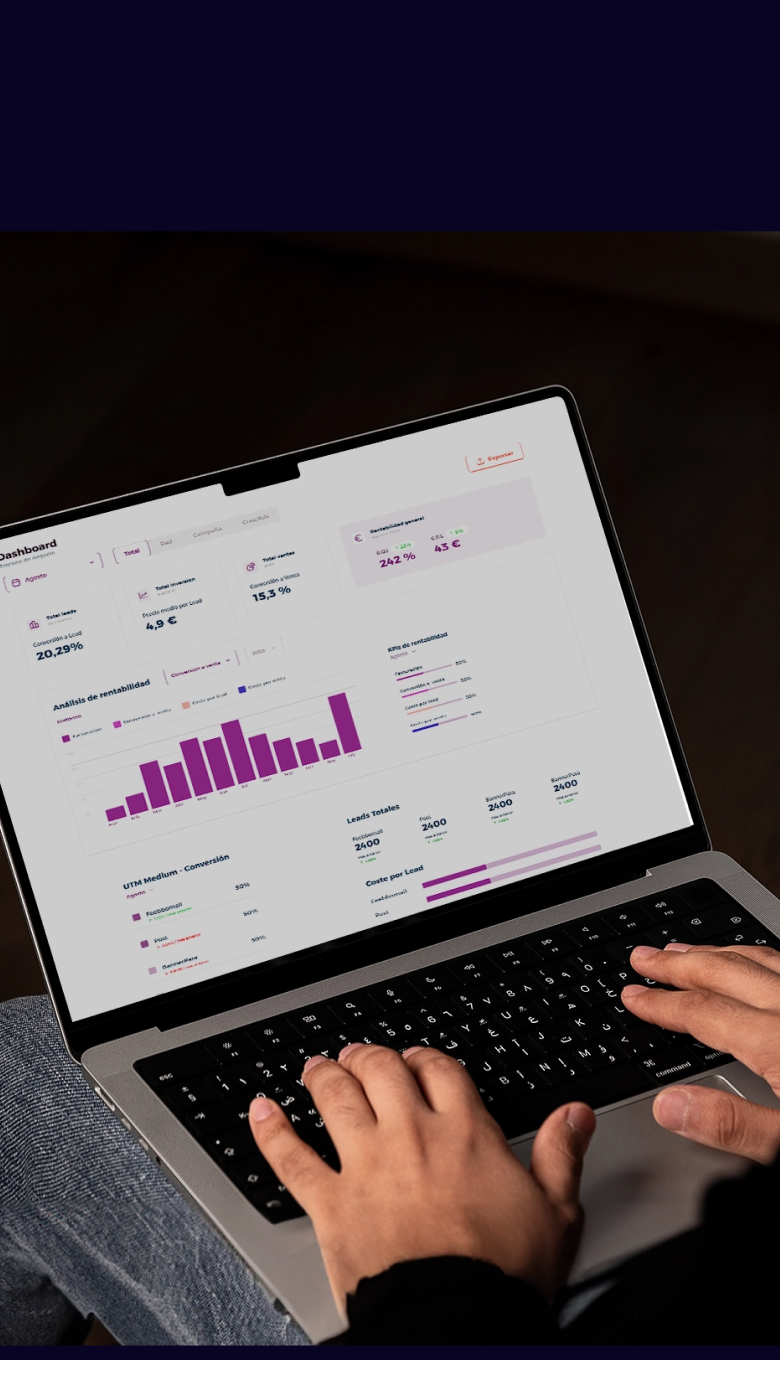
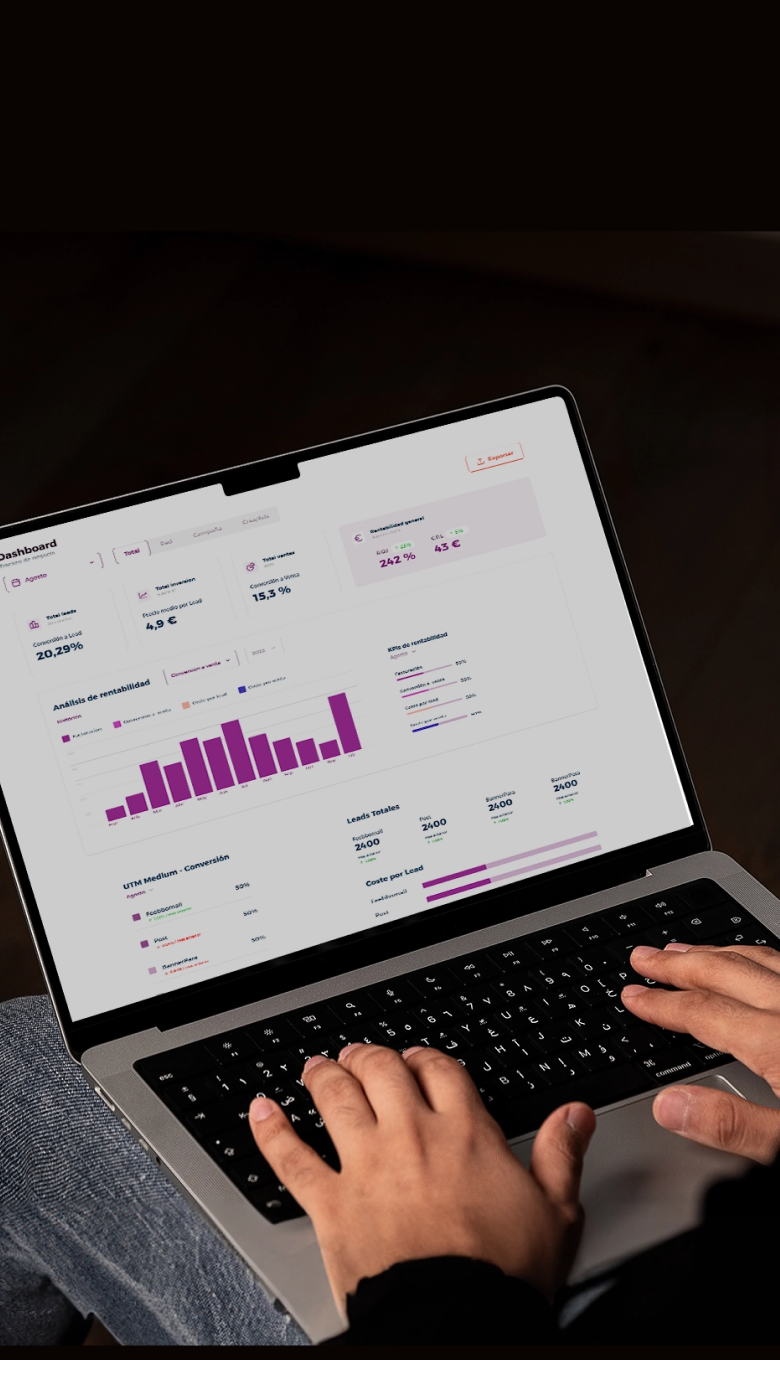
pagina wors responsive

Changed region(s): [[0.0, 0.0, 1.0, 0.1834], [0.0, 0.9782, 1.0, 1.0]]

diff --git a/src/pages/Works.jsx b/src/pages/Works.jsx
@@ -49,7 +49,7 @@ function Marquee() {
 }
 
 // ── Work card ────────────────────────────────────────────────────────
-function WorkCard({ image, hoverImage, title, description, areas, href = "#" }) {
+function WorkCard({ image, hoverImage, imageMobile, title, description, areas, href = "#" }) {
   const areaList = areas.split(" · ");
   const [hovered, setHovered] = useState(false);
   const { startCurtain } = useTransition();
@@ -67,7 +67,10 @@ function WorkCard({ image, hoverImage, title, description, areas, href = "#" }) 
       onMouseEnter={() => setHovered(true)}
       onMouseLeave={() => setHovered(false)}
     >
-      <img src={hovered && hoverImage ? hoverImage : image} alt={title} />
+      <picture>
+        {imageMobile && <source media="(max-width: 768px)" srcSet={imageMobile} />}
+        <img src={hovered && hoverImage ? hoverImage : image} alt={title} />
+      </picture>
       <div className="work-overlay">
         <div className="container-info">
 
@@ -102,6 +105,7 @@ export default function Works() {
     {
       image: "/images/works/work-adeslas.webp",
       hoverImage: "/images/works/work-adeslash.webp",
+      imageMobile: "/images/works/work-adeslas-mobile.webp",
       title: "Customer Portal",
       description: "Self-Service Platform for Insurance Clients",
       areas: "Strategy · Product Design · UX Design",
@@ -110,6 +114,7 @@ export default function Works() {
     {
       image: "/images/works/work-choose.webp",
       hoverImage: "/images/works/work-chooseh.webp",
+      imageMobile: "/images/works/work-choose-mobile.webp",
       title: "Lead Generation Platform",
       description: "Marketing Platform for Lead Capture & Conversion",
       areas: "Strategy · Product Design · UX Design",
@@ -118,6 +123,7 @@ export default function Works() {
     {
       image: "/images/works/work-pyc.webp",
       hoverImage: "/images/works/work-pych.webp",
+      imageMobile: "/images/works/work-dashboard-mobile.webp",
       title: "Performance Dashboard",
       description: "Real-Time Analytics & Reporting Platform",
       areas: "Strategy · Product Design · UX Design",
@@ -149,7 +155,7 @@ export default function Works() {
         </div>
       </div>
 
-      {/* Contact & Footer */}
+      {/* Contact */}
       <ContactFooter />
     </div>
   );

diff --git a/src/pages/Works.css b/src/pages/Works.css
@@ -190,8 +190,10 @@
   z-index: 1;
 }
 
-.selected-work:hover img {
-  transform: scale(1.03);
+@media (hover: hover) {
+  .selected-work:hover img {
+    transform: scale(1.03);
+  }
 }
 
 .work-overlay {
@@ -206,9 +208,11 @@
   z-index: 2;
 }
 
-.selected-work:hover .work-overlay {
-  opacity: 1;
-  background: transparent;
+@media (hover: hover) {
+  .selected-work:hover .work-overlay {
+    opacity: 1;
+    background: transparent;
+  }
 }
 
 /* container-info */
@@ -495,6 +499,11 @@
   .hero-title { font-size: clamp(40px, 13.33vw, 52px); line-height: 1; }
   .hero-subtitle { font-size: clamp(20px, 7.18vw, 28px); line-height: 1.4; }
   .showreel-cta { position: static; transform: none; }
+
+  /* ── Works ── */
+  .selected-work { height: 360px; }
+  .works-hero { height: 404px; }
+  .works-hero__title { font-size: 248px; }
 }
 
 @media (max-width: 768px) {
@@ -574,3 +583,89 @@
 }
 
 
+
+/* ── Mobile ── */
+@media (max-width: 768px) {
+  .works-hero {
+    height: 328px;
+  }
+
+  .works-hero__title {
+    font-size: 148px;
+  }
+
+  .works-hero__subtitle {
+    font-size: 18px;
+  }
+
+  .marquee-section {
+    height: 81px;
+  }
+
+  /* ── Cards ── */
+  .wrapper-works {
+    align-items: center;
+    gap: 24px;
+    padding: 0 12px;
+    box-sizing: border-box;
+  }
+
+  .selected-work {
+    width: 366px;
+    height: 440px;
+    flex-shrink: 0;
+    border-radius: 16px;
+    overflow: hidden;
+  }
+
+  .selected-work + .selected-work {
+    border-top: none;
+  }
+
+  /* Overlay siempre visible, sin hover */
+  .work-overlay {
+    opacity: 1;
+    background: rgba(2, 4, 20, 0.55);
+    align-items: flex-end;
+    padding-bottom: 32px;
+    box-sizing: border-box;
+  }
+
+  .container-info {
+    gap: 24px;
+    padding: 0 24px;
+    box-sizing: border-box;
+    width: 100%;
+  }
+
+  .project-info {
+    gap: 12px;
+  }
+
+  .project-title {
+    font-size: 28px;
+    font-weight: 600;
+  }
+
+  .wrapper-areas {
+    gap: 8px;
+    flex-wrap: wrap;
+  }
+
+  .area-badge {
+    background: transparent;
+    color: #ffffff;
+    padding: 0;
+    font-size: 14px;
+  }
+
+  .area-dot {
+    color: #ffffff;
+  }
+
+  .btn-see-project {
+    font-size: 16px;
+    padding: 10px 32px;
+    border-color: rgba(255, 255, 255, 0.4);
+  }
+}
